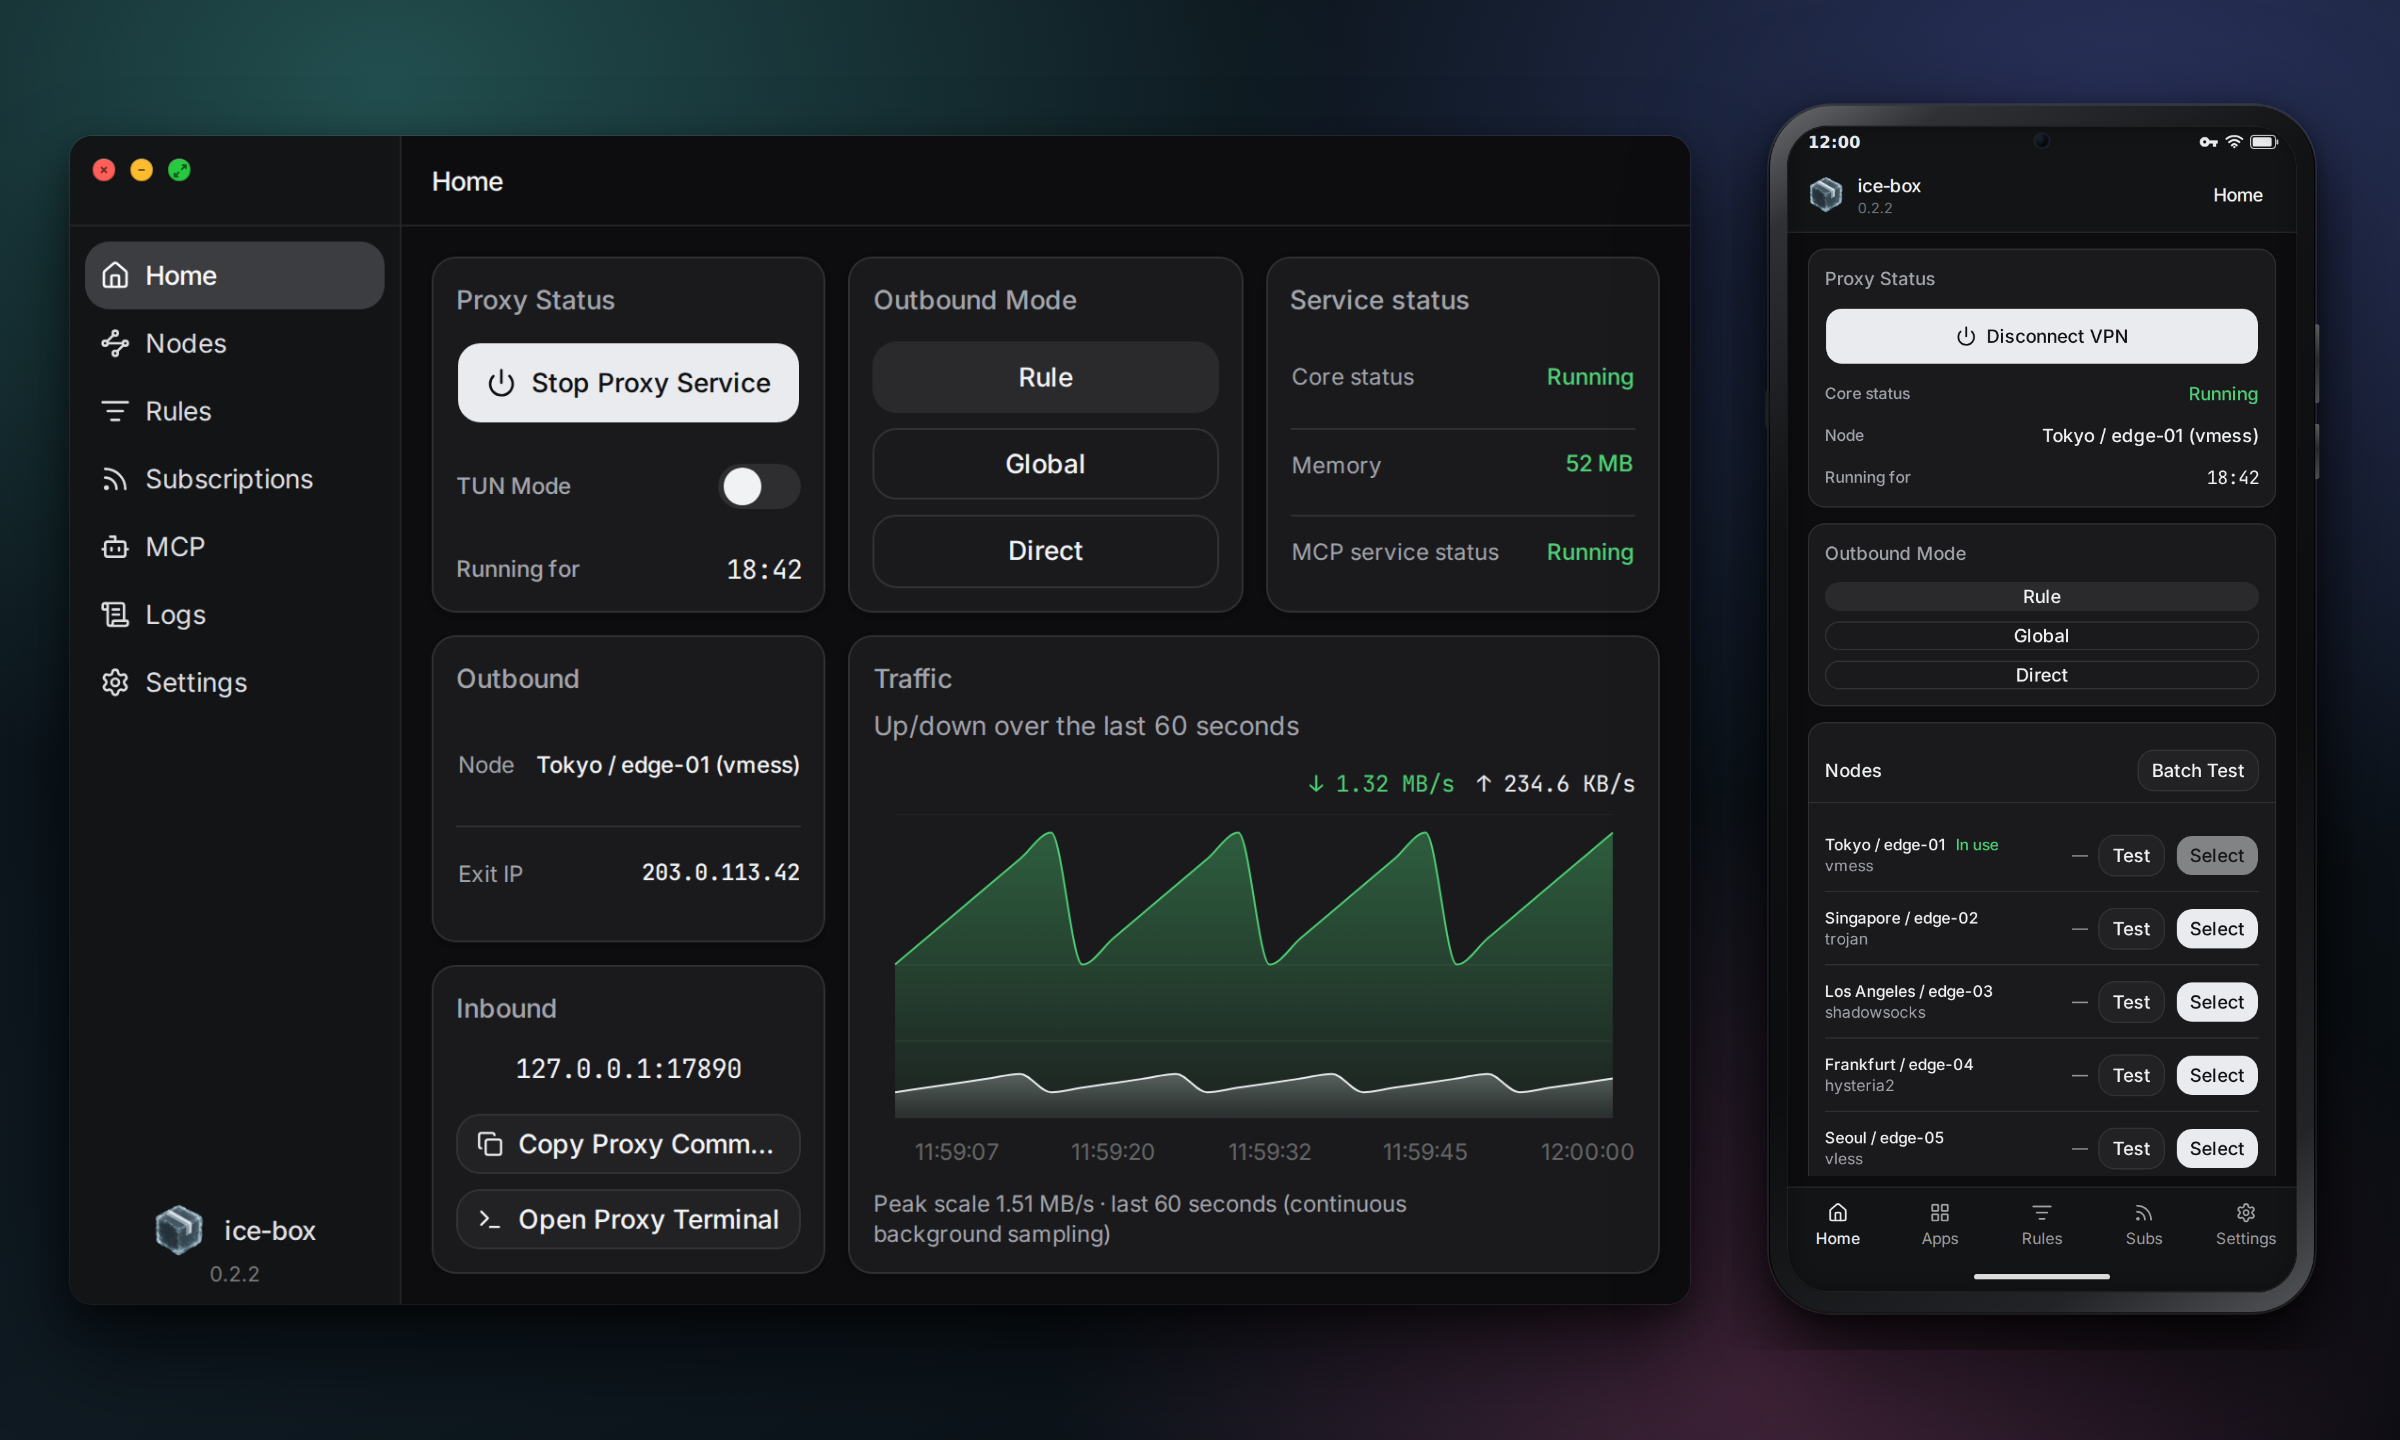
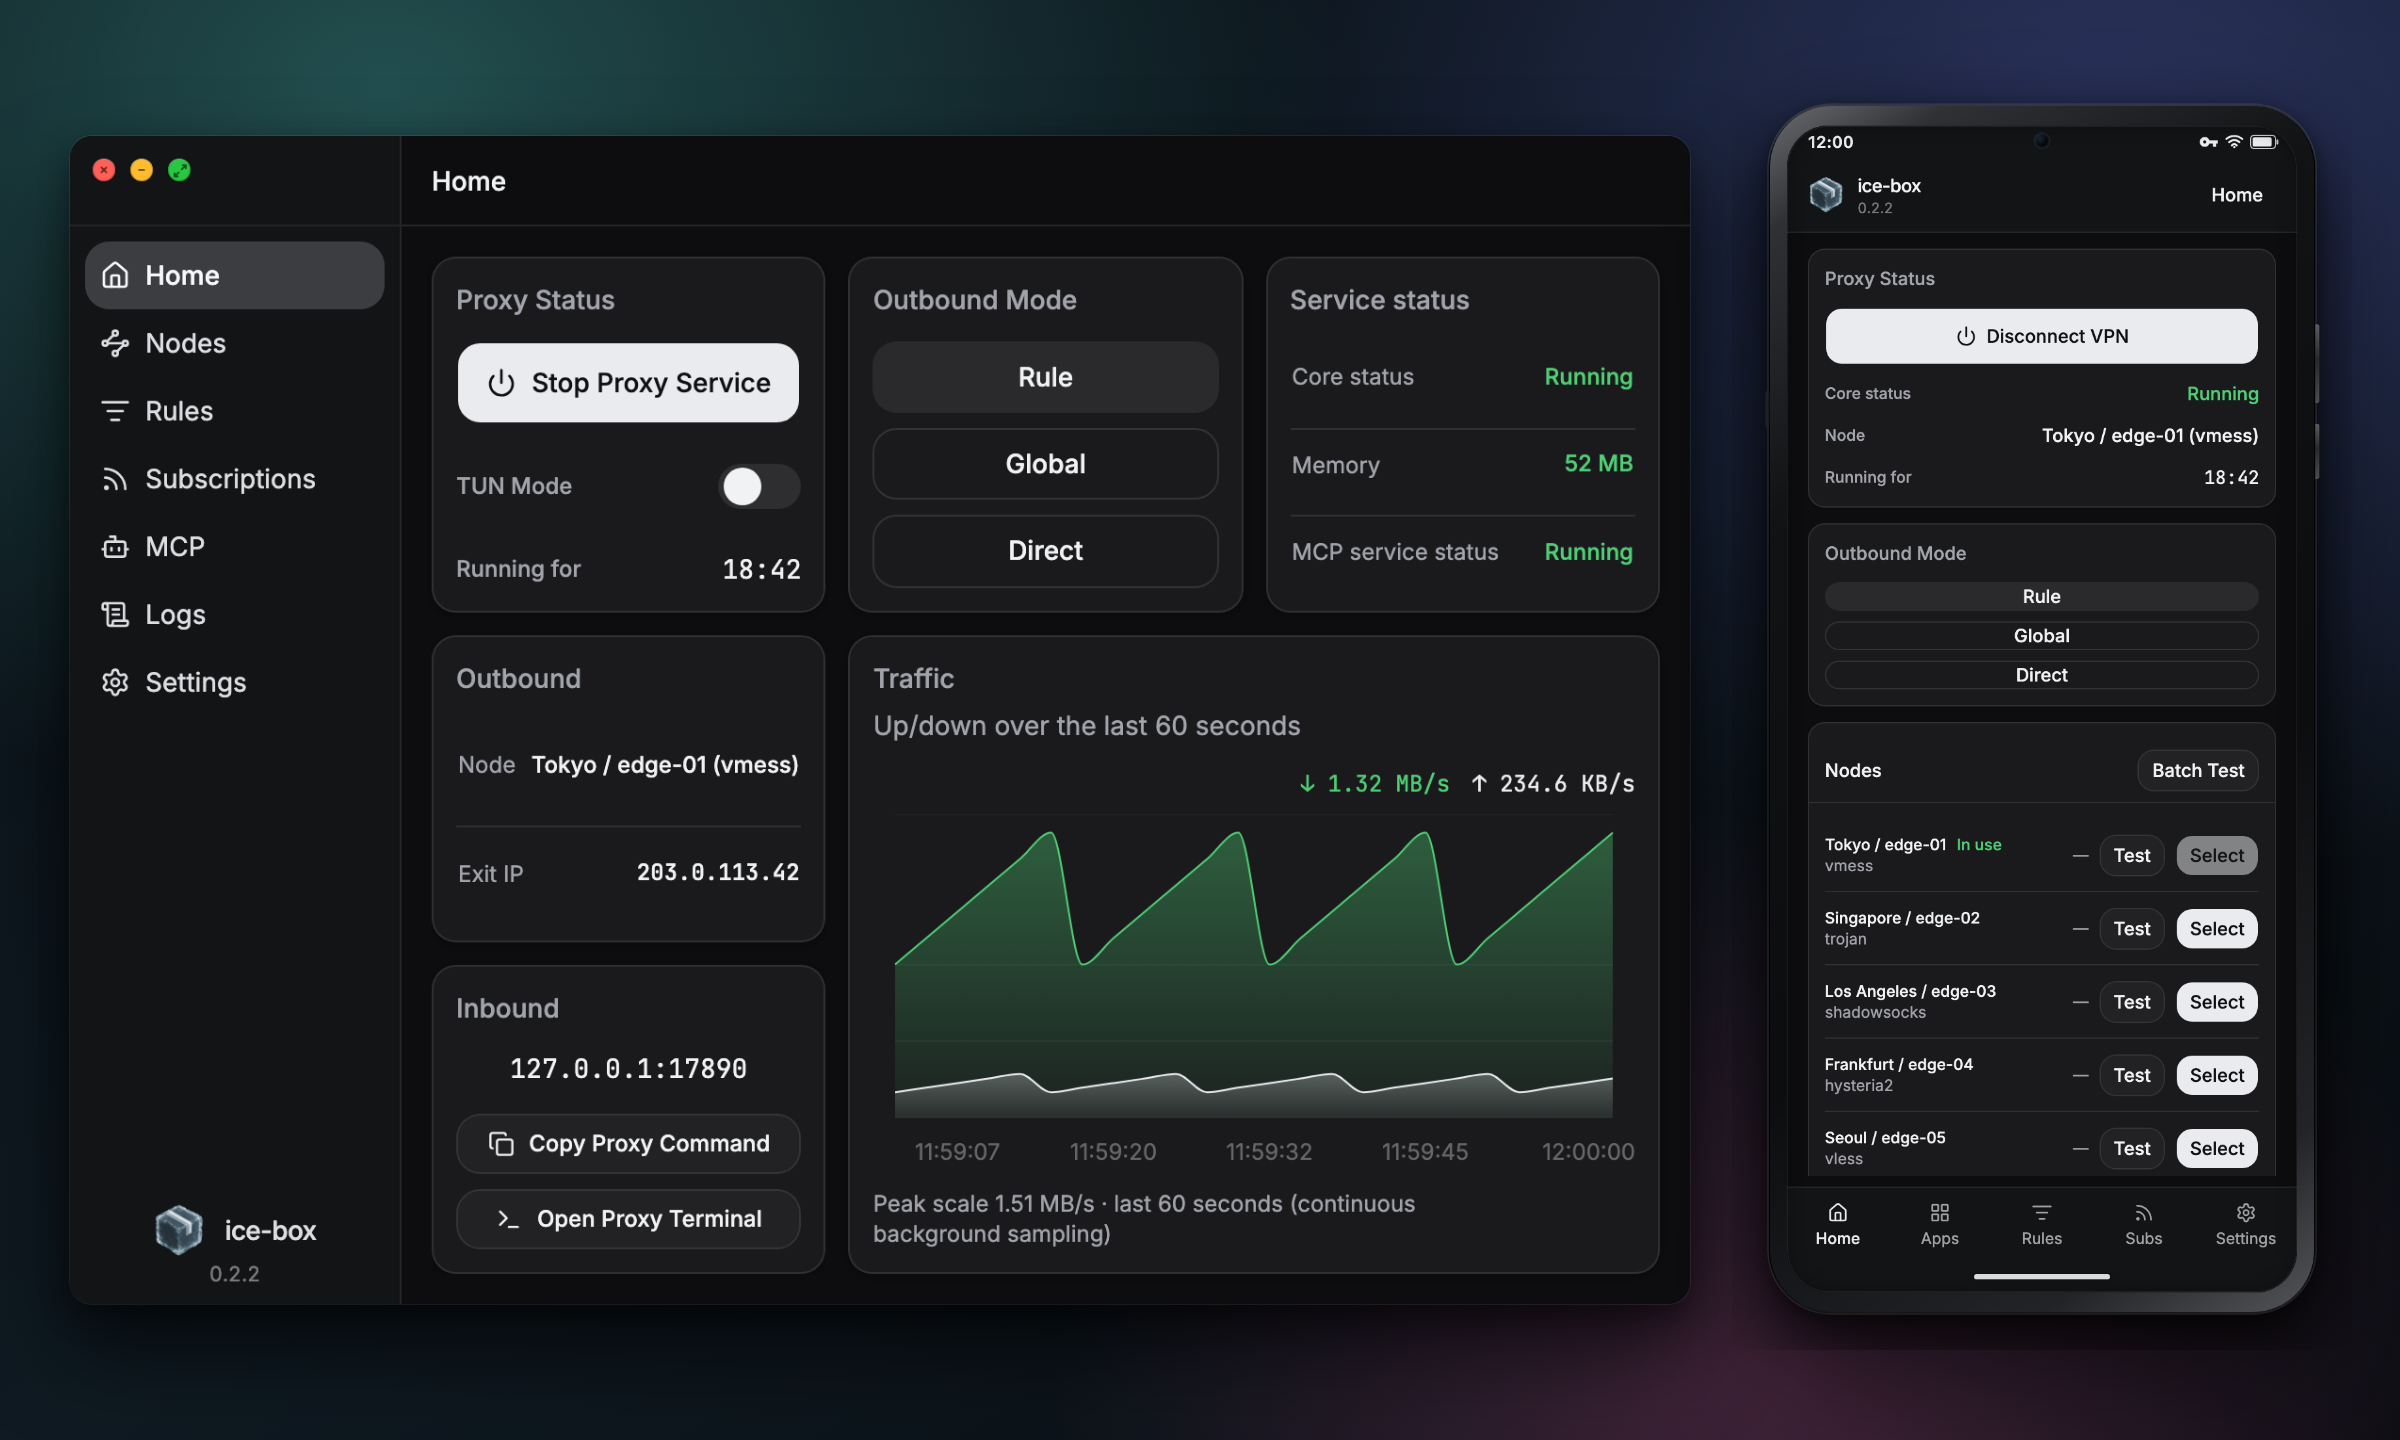
fix(docs): stabilize README captures and polish the hero
- Wait for the app's Inter, JetBrains Mono, and flag fonts before taking the
  documentation screenshots. The fixed timeout could capture the fallback
  font, which changed text metrics and made the committed hero unreproducible.
- Fit the Inbound action labels at the default 860x620 window size and refresh
  the composed hero images so the README matches the actual UI.
- Fix the Chinese headline spacing, document that the gate always recomposes
  the hero, and ignore the retired mobile-apps capture files.

diff --git a/apps/desktop/src/pages/Home.tsx b/apps/desktop/src/pages/Home.tsx
@@ -1069,7 +1069,7 @@ export function Home({ onBusyChange, onNavigate, active = true, onStatus }: Prop
                       onClick={() => void onCopyCliProxy()}
                     >
                       <Copy />
-                      <span className="truncate">
+                      <span className="truncate text-xs">
                         {copiedCliProxy
                           ? t("home.copyCliProxyCopied")
                           : t("home.copyCliProxy")}
@@ -1085,7 +1085,7 @@ export function Home({ onBusyChange, onNavigate, active = true, onStatus }: Prop
                       onClick={() => void onOpenCliProxy()}
                     >
                       <Terminal />
-                      <span className="truncate">{t("home.openCliProxy")}</span>
+                      <span className="truncate text-xs">{t("home.openCliProxy")}</span>
                     </Button>
                   </div>
                 ) : null}

diff --git a/apps/website/src/i18n.ts b/apps/website/src/i18n.ts
@@ -20,7 +20,8 @@ const zh = {
   "head.title": "ice-box — 代理，保持简单",
   "head.description":
     "ice-box — 面向 macOS、Windows 与 Android 的轻量代理客户端。上手简单、启动迅速，运行时占用小。",
-  "hero.title": "低运行开销，AGENT友好<br>基于sing-box的跨平台代理工具",
+  "hero.title":
+    "低运行开销，Agent 友好<br>基于 sing-box 的跨平台代理工具",
   "hero.installer": "下载",
   "hero.installerPlatform": "下载 {platform} 版本",
   "hero.more": "更多安装包下载",

diff --git a/apps/website/src/main.js b/apps/website/src/main.js
@@ -103,7 +103,7 @@ const currentPlatform = detectPlatform(navigator.userAgent);
  * The Live Demo renders the desktop app at its default 860x620 window size and
  * scales that window to the available screen width, so the demo matches the
  * app and the README screenshots. Below 1100px the laptop shell is dropped and
- * the demo reflows at its own width, so the text stays readable.
+ * the demo uses the full container width instead.
  */
 const DEMO_WINDOW = { width: 860, height: 620 };
 const DEMO_SHELL_MIN_WIDTH = 1100;

diff --git a/apps/mobile/capture.html b/apps/mobile/capture.html
@@ -1,4 +1,5 @@
 <!doctype html>
+<!-- SPDX-License-Identifier: GPL-3.0-or-later -->
 <html lang="en">
   <head>
     <meta charset="UTF-8" />

diff --git a/docs/testing.md b/docs/testing.md
@@ -12,10 +12,9 @@ Run commands from the repository root. Development prerequisites are in the
 | `bash scripts/gate.sh` | All-crate clippy; non-desktop Rust library/integration/doc tests plus desktop library tests; frontend checks, fixtures, and production build |
 
 The local gate omits desktop Rust tests because GTK/WebKit dependencies may be
-unavailable. Its screenshot step refreshes the documentation images — the
-desktop Home view, the Android Home view, and the composed README hero — when
-the version or relevant UI files change, or when any image is missing. CI skips
-screenshot capture.
+unavailable. Its screenshot step refreshes the desktop and Android Home captures
+when the version or relevant UI files change, or when any capture is missing,
+and recomposes the README hero on every run. CI skips screenshot capture.
 
 CI runs the full gate on Linux and `GATE_SCOPE=rust` on macOS/Windows; packaging
 jobs build separately. `GATE_SCOPE=frontend` runs only the frontend half.

diff --git a/CHANGELOG.md b/CHANGELOG.md
@@ -25,7 +25,7 @@ The format is based on [Keep a Changelog](https://keepachangelog.com/en/1.1.0/).
 - The website Live Demo is framed in a laptop shell drawn in CSS on a desktop
   wallpaper, and the app is shown as a window at its default 860x620 size
   instead of filling the screen or using a fixed 690px height. Below 1100px the
-  shell is dropped so the demo reflows at full width and stays readable.
+  shell is dropped so the demo uses the full container width.
 
 ## [0.2.2] - 2026-10-20
 

diff --git a/docs/release-process.md b/docs/release-process.md
@@ -106,8 +106,9 @@ run it before tagging.
 bash scripts/gate-local.sh
 ```
 
-The gate recaptures the documentation screenshots and composes the README
-product shot when the version or the UI changed. To refresh them explicitly:
+The gate recaptures the documentation screenshots when the version or the UI
+changed, and recomposes the README product shot from them on every run. To
+refresh them explicitly:
 
 ```bash
 bash scripts/capture-demo-home.sh
